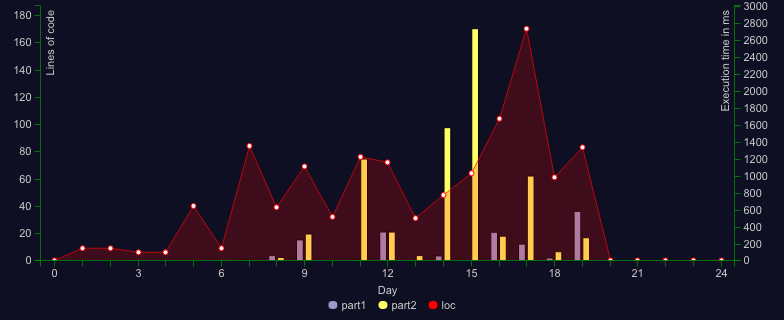
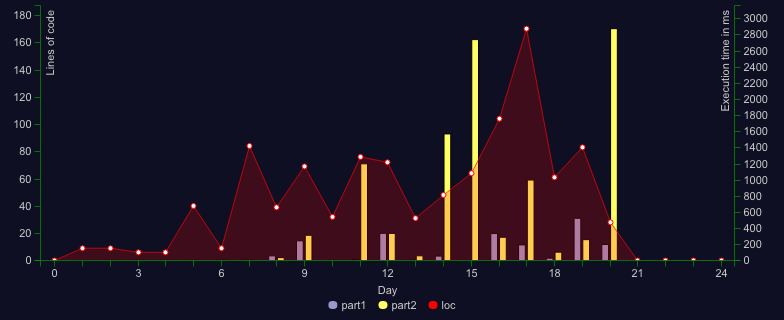
day 20: done

diff --git a/src/day20/index.ts b/src/day20/index.ts
@@ -1,0 +1,77 @@
+import run from "aocrunner"
+import { entries } from "lodash-es"
+import { map, pipe, sum } from "ramda"
+import { log, splitLines, todo } from "../utils/index.js"
+
+const parseInput = pipe(splitLines, map(Number))
+
+const mix =
+  (times = 1) =>
+  (xs: number[]) => {
+    const acc = xs.map((x, i) => [x, i])
+
+    for (let t = 0; t < times; t++) {
+      for (let i = 0; i < acc.length; i++) {
+        const start = acc.findIndex(([, x]) => x === i)
+        const x = acc[start][0]
+        acc.splice(start, 1)
+        acc.splice((start + x) % acc.length, 0, [x, i])
+      }
+    }
+    return acc.map(([x]) => x)
+  }
+
+const coords = (xs: number[]) =>
+  [1000, 2000, 3000].map((i) => {
+    const zi = xs.findIndex((x) => x === 0)
+    return xs[(zi + i) % xs.length]
+  })
+
+const part1 = pipe(parseInput, mix(), coords, sum)
+
+const part2 = pipe(
+  parseInput,
+  map((x) => x * 811589153),
+  mix(10),
+  coords,
+  sum,
+)
+
+run({
+  part1: {
+    tests: [
+      {
+        input: `
+          1
+          2
+          -3
+          3
+          -2
+          0
+          4
+        `,
+        expected: 3,
+      },
+    ],
+    solution: part1,
+  },
+  part2: {
+    tests: [
+      {
+        input: `
+          1
+          2
+          -3
+          3
+          -2
+          0
+          4
+        `,
+        expected: 1623178306,
+      },
+    ],
+    solution: part2,
+  },
+  trimTestInputs: true,
+  onlyTests: true,
+})

diff --git a/README.md b/README.md
@@ -35,7 +35,7 @@
 [![Day](https://badgen.net/badge/17/%E2%98%85%E2%98%86/yellow)](src/day17)
 [![Day](https://badgen.net/badge/18/%E2%98%85%E2%98%85/green)](src/day18)
 [![Day](https://badgen.net/badge/19/%E2%98%85%E2%98%85/green)](src/day19)
-![Day](https://badgen.net/badge/20/%E2%98%86%E2%98%86/gray)
+[![Day](https://badgen.net/badge/20/%E2%98%85%E2%98%85/green)](src/day20)
 ![Day](https://badgen.net/badge/21/%E2%98%86%E2%98%86/gray)
 ![Day](https://badgen.net/badge/22/%E2%98%86%E2%98%86/gray)
 ![Day](https://badgen.net/badge/23/%E2%98%86%E2%98%86/gray)
@@ -200,16 +200,16 @@ Both parts: 132.891ms
 
 ```
 Day 19
-Time part 1: 3502.826ms
-Time part 2: 677.956ms
-Both parts: 4180.782ms
+Time part 1: 523.301ms
+Time part 2: 258.153ms
+Both parts: 781.454ms
 ```
 
 ```
 Day 20
-Time part 1: -
-Time part 2: -
-Both parts: -
+Time part 1: 92.082ms
+Time part 2: 618.985ms
+Both parts: 711.067ms
 ```
 
 ```
@@ -248,8 +248,8 @@ Both parts: -
 ```
 
 ```
-Total stars: 36/50
-Total time: 12148.895ms
+Total stars: 38/50
+Total time: 9460.635ms
 ```
 
 <!--/RESULTS-->

diff --git a/src/day20/README.md b/src/day20/README.md
@@ -1,0 +1,9 @@
+# 🎄 Advent of Code 2022 - day 20 🎄
+
+## Info
+
+Task description: [link](https://adventofcode.com/2022/day/20)
+
+## Notes
+
+...
